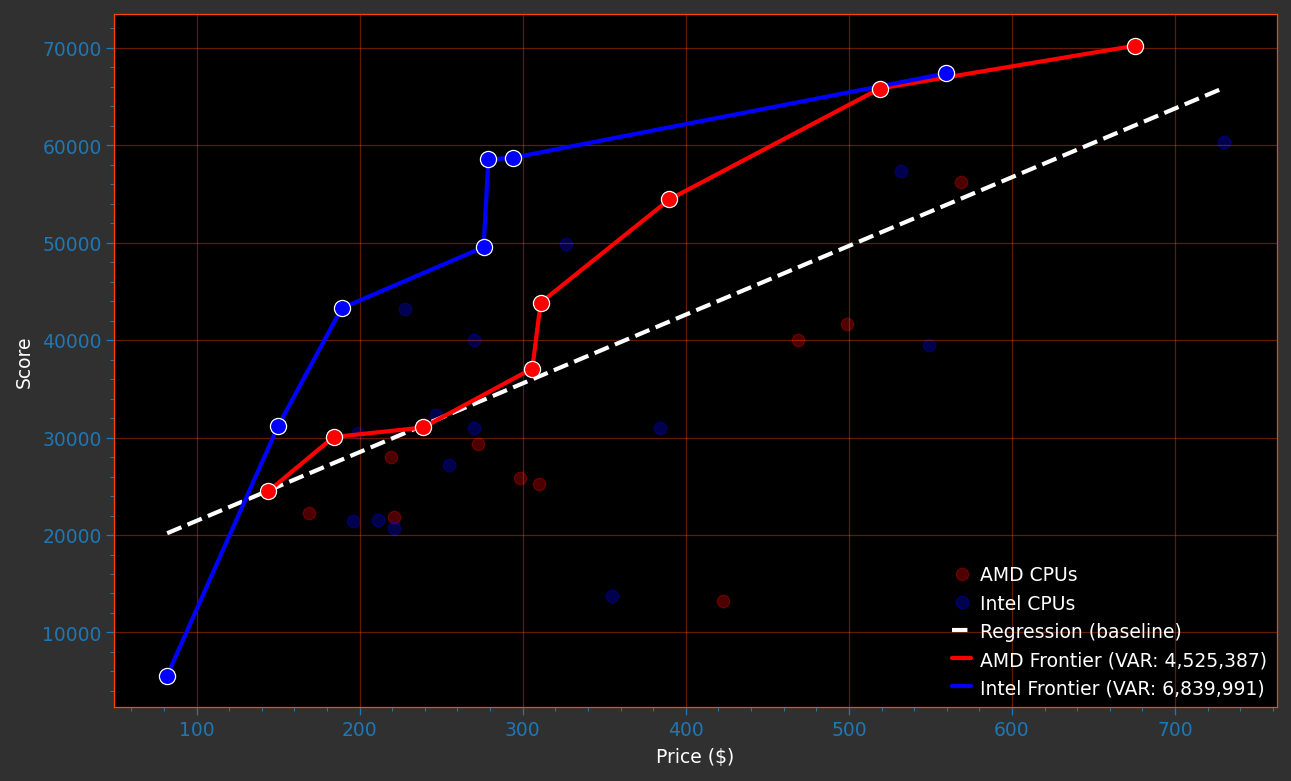
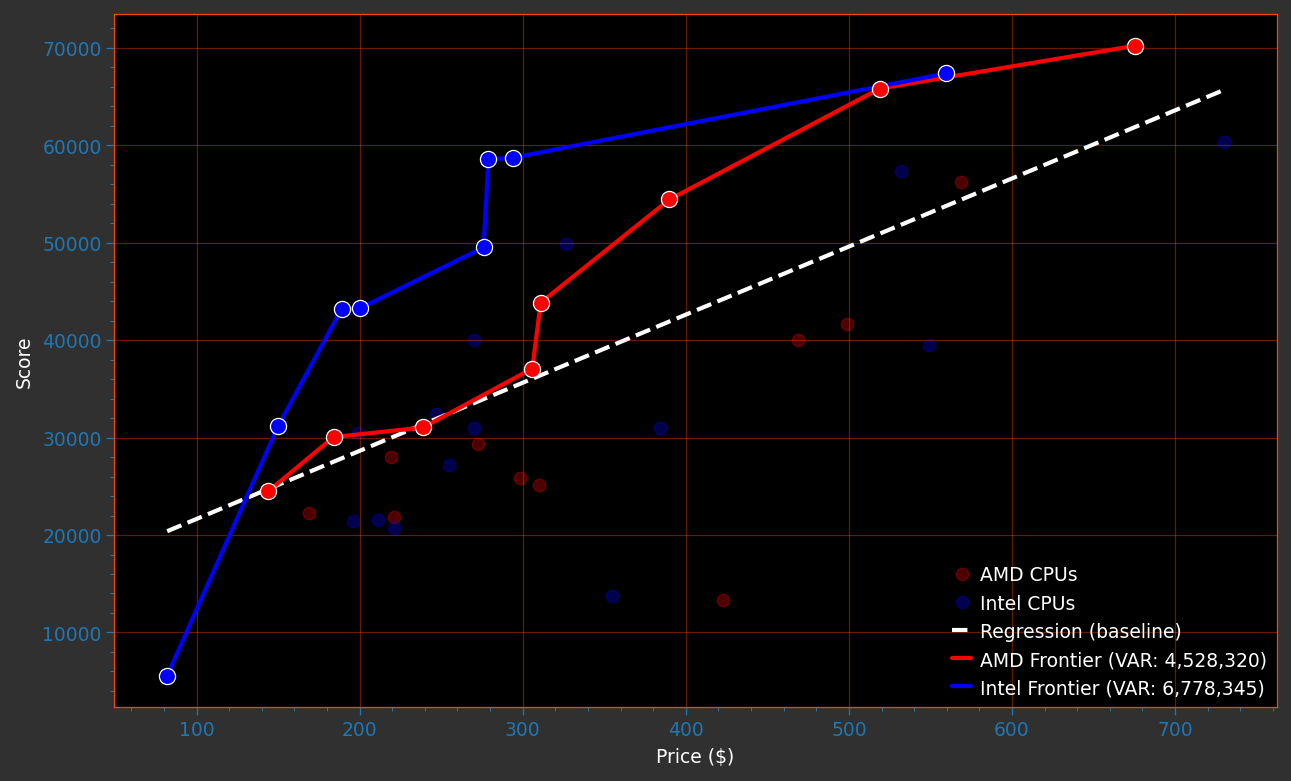
Update CPU analysis 2026-03-18

diff --git a/docs/index.html b/docs/index.html
@@ -19,28 +19,28 @@
 </head>
 <body>
     <h1>CPU Price/Performance Analysis</h1>
-    <p class="updated">Last updated: 2026-03-17</p>
+    <p class="updated">Last updated: 2026-03-18</p>
 
     <h2>Top 10 Best Value CPUs</h2>
     <table>
         <tr><th>Brand</th><th>Model</th><th>Score</th><th>Price</th><th>Value</th></tr>
-        <tr><td>Intel</td><td>Core Ultra 5 245KF</td><td>43,270</td><td>$189</td><td>228.94</td></tr>
-        <tr><td>Intel</td><td>Core Ultra 7 265KF</td><td>58,545</td><td>$279</td><td>209.85</td></tr>
-        <tr><td>Intel</td><td>Core Ultra 5 225F</td><td>31,169</td><td>$150</td><td>207.81</td></tr>
-        <tr><td>Intel</td><td>Core Ultra 7 265K</td><td>58,708</td><td>$294</td><td>199.69</td></tr>
-        <tr><td>Intel</td><td>Core Ultra 5 245K</td><td>43,241</td><td>$228</td><td>189.65</td></tr>
-        <tr><td>Intel</td><td>Core Ultra 7 265F</td><td>49,535</td><td>$276</td><td>179.47</td></tr>
-        <tr><td>AMD</td><td>Ryzen 5 8400F</td><td>24,476</td><td>$144</td><td>170.07</td></tr>
-        <tr><td>AMD</td><td>Ryzen 5 9600X</td><td>30,052</td><td>$184</td><td>163.33</td></tr>
-        <tr><td>Intel</td><td>Core Ultra 5 225</td><td>30,502</td><td>$199</td><td>153.28</td></tr>
-        <tr><td>Intel</td><td>Core Ultra 7 265</td><td>49,854</td><td>$327</td><td>152.55</td></tr>
+        <tr><td>Intel</td><td>Core Ultra 5 245KF</td><td>43,219</td><td>$189</td><td>228.67</td></tr>
+        <tr><td>Intel</td><td>Core Ultra 5 245K</td><td>43,245</td><td>$200</td><td>216.24</td></tr>
+        <tr><td>Intel</td><td>Core Ultra 7 265KF</td><td>58,544</td><td>$279</td><td>209.84</td></tr>
+        <tr><td>Intel</td><td>Core Ultra 5 225F</td><td>31,170</td><td>$150</td><td>207.81</td></tr>
+        <tr><td>Intel</td><td>Core Ultra 7 265K</td><td>58,711</td><td>$294</td><td>199.70</td></tr>
+        <tr><td>Intel</td><td>Core Ultra 7 265F</td><td>49,511</td><td>$276</td><td>179.39</td></tr>
+        <tr><td>AMD</td><td>Ryzen 5 8400F</td><td>24,477</td><td>$144</td><td>170.07</td></tr>
+        <tr><td>AMD</td><td>Ryzen 5 9600X</td><td>30,054</td><td>$184</td><td>163.34</td></tr>
+        <tr><td>Intel</td><td>Core Ultra 5 225</td><td>30,491</td><td>$199</td><td>153.22</td></tr>
+        <tr><td>Intel</td><td>Core Ultra 7 265</td><td>49,848</td><td>$327</td><td>152.53</td></tr>
     </table>
 
     <h2>Brand Summary (Best Value CPUs)</h2>
     <table>
         <tr><th>Brand</th><th>Count</th><th>Avg Score</th><th>Avg Price</th><th>Avg Value</th></tr>
-        <tr><td>AMD</td><td>18</td><td>36,697</td><td>$345</td><td>112.71</td></tr>
-        <tr><td>Intel</td><td>22</td><td>37,903</td><td>$309</td><td>131.68</td></tr>
+        <tr><td>AMD</td><td>18</td><td>36,700</td><td>$345</td><td>112.72</td></tr>
+        <tr><td>Intel</td><td>22</td><td>37,900</td><td>$308</td><td>132.87</td></tr>
     </table>
 
     <h2>Price Distribution</h2>
